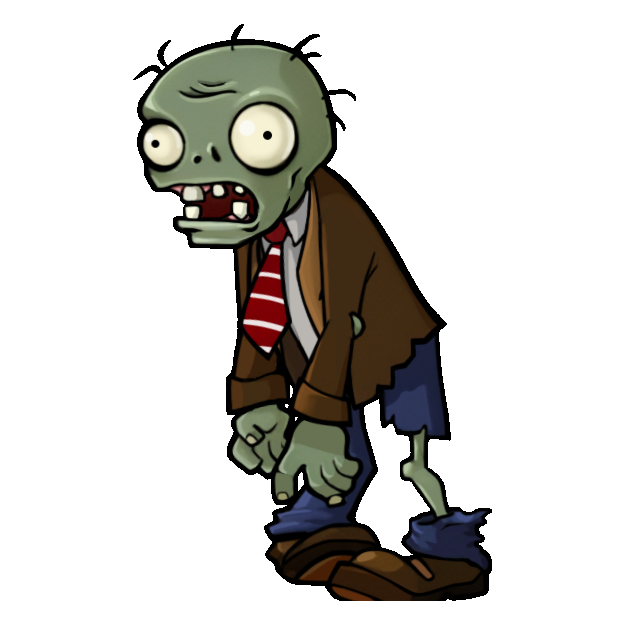
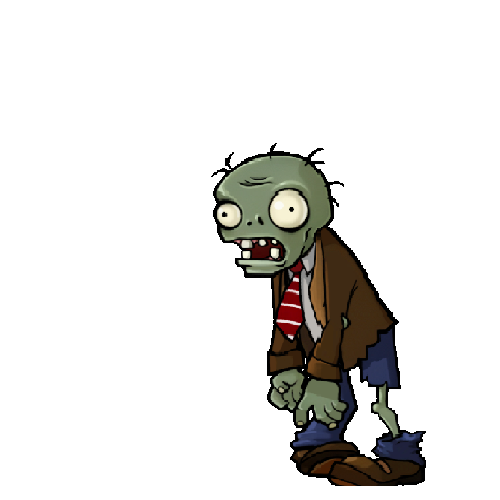
upd visuales add flag zombie

diff --git a/src/visuales.c b/src/visuales.c
@@ -14,6 +14,7 @@ static SDL_Texture *nuez_textura0 = NULL;
 static SDL_Texture *nuez_textura1 = NULL;
 static SDL_Texture *nuez_textura2 = NULL;
 static SDL_Texture *zombi_textura0 = NULL;
+static SDL_Texture *flag_zombi_textura0 = NULL;
 static SDL_Texture *guisante_textura0 = NULL;
 
 static SDL_Texture *seed_lanzaguisantes = NULL;
@@ -87,6 +88,10 @@ bool inicializarVisuales(void) {
     }
     zombi_textura0 = cargarTextura("assets/images/zombi_textura0.png");
     if(!zombi_textura0){
+        return false;
+    }
+    flag_zombi_textura0 = cargarTextura("assets/images/flag_zombi_textura0.png");
+    if(!flag_zombi_textura0){
         return false;
     }
     guisante_textura0 = cargarTextura("assets/images/guisante_textura0.png");
@@ -221,8 +226,8 @@ void loopVisuales(float pos_camara_x, int estadoJuego, int planta_elegida){
 
             SDL_FRect rectangulo;
             if (elemento == ZOMBIE || elemento == FLAG_ZOMBIE){
-                float salida_zombis = 30.0;
-                rectangulo.x = (float)((MARGEN_X + columna * ANCHO_CELDA) - (salida_zombis/2));
+                float salida_zombis = 90.0;
+                rectangulo.x = (float)((MARGEN_X + columna * ANCHO_CELDA) - salida_zombis);
                 rectangulo.y = (float)((MARGEN_Y + fila * ALTO_CELDA) - salida_zombis);
                 rectangulo.w = (float)ANCHO_CELDA + salida_zombis;
                 rectangulo.h = (float)ALTO_CELDA + salida_zombis;
@@ -283,8 +288,10 @@ void imprimirTextura(int planta, SDL_FRect rectangulo){
             SDL_RenderTexture(renderizador, nuez_textura0, NULL, &rectangulo);
             break;
         case ZOMBIE:
-        case FLAG_ZOMBIE:
             SDL_RenderTexture(renderizador, zombi_textura0, NULL, &rectangulo);
+            break;
+        case FLAG_ZOMBIE:
+            SDL_RenderTexture(renderizador, flag_zombi_textura0, NULL, &rectangulo);
             break;
         case GUISANTE:
             SDL_RenderTexture(renderizador, guisante_textura0, NULL, &rectangulo);
@@ -382,4 +389,12 @@ void dibujarSoles(int cantidad_soles) {
     SDL_RenderTexture(renderizador, textura_texto, NULL, &rect_destino);
 
     SDL_DestroyTexture(textura_texto);
+}
+
+void pantallaDerrota(){
+
+}
+
+void pantallaVictoria(){
+
 }
